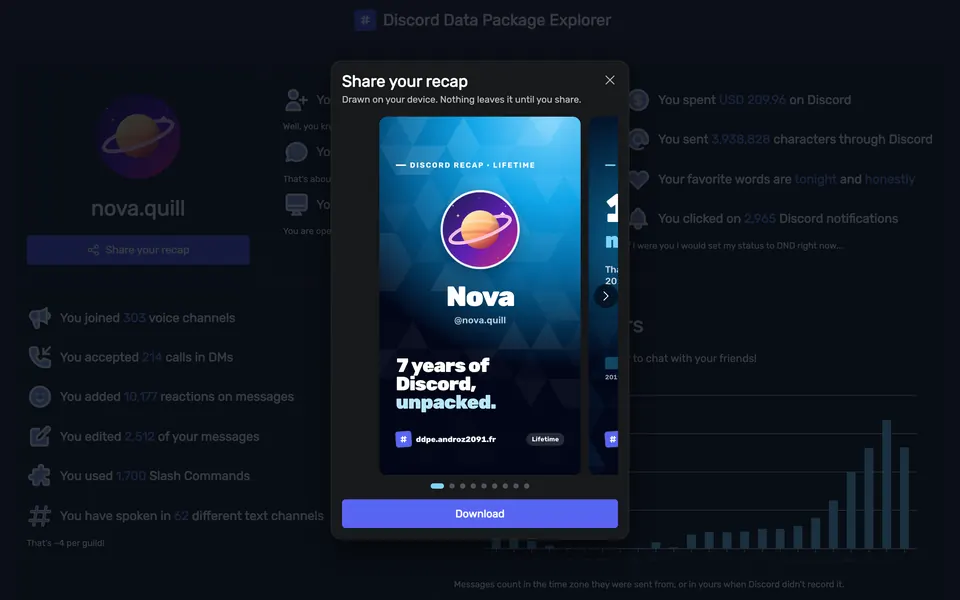
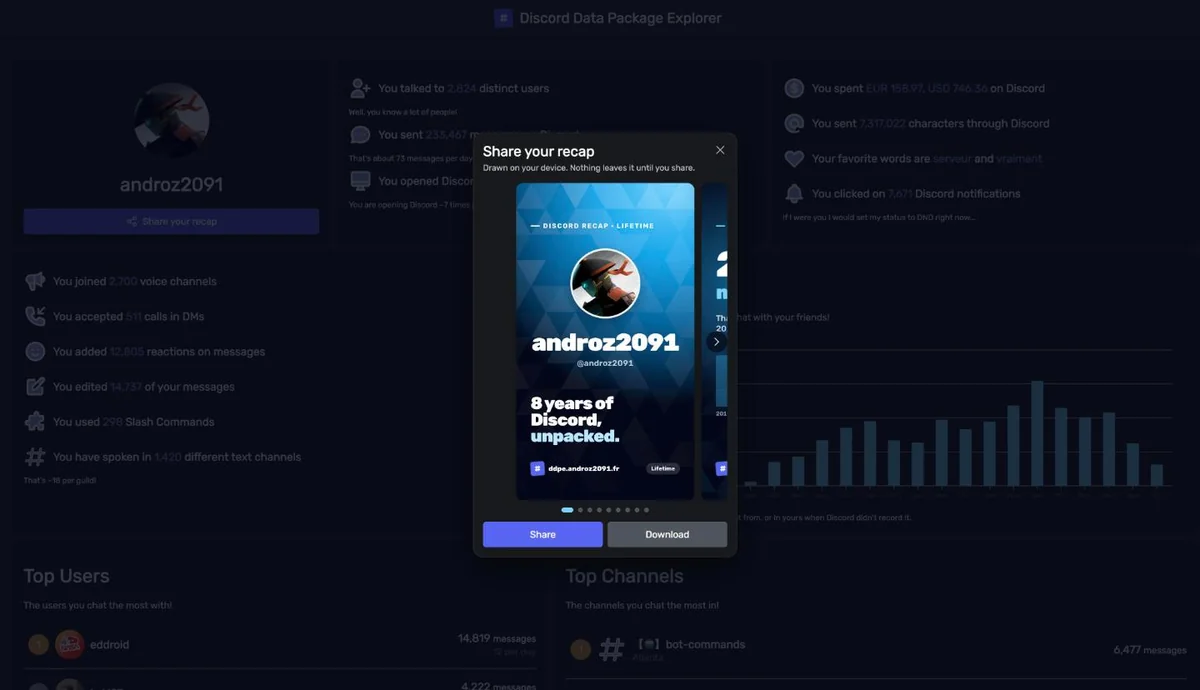
📝 Show Androz2091's own package in the README
The hero's cards and the four page screenshots now come from Androz2091's own Discord package, captured from the live site, instead of the made-up account.

diff --git a/README.md b/README.md
@@ -1,5 +1,5 @@
 <p align="center">
-  <img src=".github/readme/hero.webp" alt="Five DDPE share cards for a made-up account: 180,551 messages sent, top DMs, a 7-year recap, top words and a 10 PM peak hour" width="100%">
+  <img src=".github/readme/hero.webp" alt="Five DDPE share cards from Androz2091's own package: 233,467 messages sent, top DMs, an 8-year recap, top words and a 6 PM peak hour" width="100%">
 </p>
 
 <h1 align="center">Discord Data Package Explorer</h1>
@@ -20,16 +20,16 @@
 
 <table>
   <tr>
-    <td align="center" width="50%"><img src=".github/readme/stats.webp" alt="The stats page of a made-up account: people, messages, app opens, favorite words and the hours it chats at"></td>
-    <td align="center" width="50%"><img src=".github/readme/top.webp" alt="The top users and channels of a made-up account, with the messages a day of each"></td>
+    <td align="center" width="50%"><img src=".github/readme/stats.webp" alt="The stats page of Androz2091's package: people, messages, app opens, favorite words and chat hours"></td>
+    <td align="center" width="50%"><img src=".github/readme/top.webp" alt="The top users and channels of Androz2091's package, with the messages a day of each"></td>
   </tr>
   <tr>
     <td align="center">Your numbers and your Discord hours</td>
     <td align="center">Who you talk to, and where</td>
   </tr>
   <tr>
-    <td align="center"><img src=".github/readme/words.webp" alt="The top servers and top words of a made-up account"></td>
-    <td align="center"><img src=".github/readme/share.webp" alt="The share sheet open on the cover card of a made-up account"></td>
+    <td align="center"><img src=".github/readme/words.webp" alt="The top servers and top words of Androz2091's package"></td>
+    <td align="center"><img src=".github/readme/share.webp" alt="The share sheet open on the cover card of Androz2091's package"></td>
   </tr>
   <tr>
     <td align="center">Your servers and your words</td>
@@ -41,7 +41,7 @@
 - Group DMs rank among your top users, each with its messages a day.
 - Share 8 story cards and a square summary, drawn on your device.
 
-The screenshots and cards show a made-up account.
+The screenshots and cards show Androz2091's own Discord package.
 
 ## Your data stays in your browser
 
